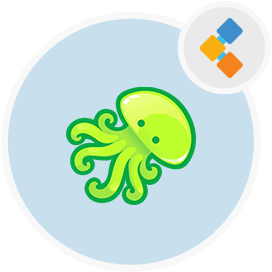
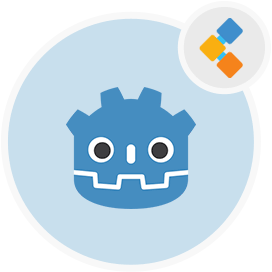
superpowers product first commit after issues

Changed region(s): [[0.2353, 0.2941, 0.7353, 0.7941]]

diff --git a/en/game-development-software/superpowers/_index.md b/en/game-development-software/superpowers/_index.md
@@ -1,32 +1,32 @@
 ---
-title: Superpowers | Open Source Free 3D Game Maker
-description: Superpowers is an open source free 3D game maker. It provides an HTML5 development environment along with many features such as 3D models and more.
-singlepageh1title: Cross Platform Tool For Creating Customized 2D 3D Games
-singlepageh2title: Learn free game development with the rich-featured editor. Built-in support for license-free sprites, sound effects, game examples, and live error reporting.
-Shortdescriptionlistingpage: Superpowers is an alternative free 3D game maker. It is flexible and offers features such as shared projects, syntax highlighting, cross-platform and more.
-linktitle: Superpowers
+title: Godot | Free Software For Building Cross Platform Games
+description: Build cross platform 3D games with open source Godot. It provides an intuitive drag & drop interface and live coding editor to control objects and behavior.
+singlepageh1title: 3D Game Maker With A Node-Based Interface And REST API
+singlepageh2title: Godot is a 3D game designer with a simple interface and persistent live editing capabilities. It is lightweight, robust, supports animations and sound effects.
+Shortdescriptionlistingpage: Godot is another alternative game development software for building cross platform games. It offers context-sensitive UI, REST API and many other features.
+linktitle: Godot
 Imagetext:  Free Game Development Software
 draft: false
-weight: 3
+weight: 2
 layout: "single"
-GithubLink: https://github.com/superpowers/superpowers-core
-HomePage_TitleText: Game Development Software in TypeScript
+GithubLink: https://github.com/godotengine/godot
+HomePage_TitleText: Game Development Software in C++
 
-ListingPage_MenuImage_TitleText: free 3D game maker
-ListingPage_MenuImage_AltText: Superpowers is a free 3D game maker
-ListingPage_Link_TitleText: free 3D game maker
+ListingPage_MenuImage_TitleText: free game development software
+ListingPage_MenuImage_AltText: Godot is an Open Source free game creation platform for building cross platform games
+ListingPage_Link_TitleText: free game creation platform for building cross platform games
 
-SinglePage_HeaderImage_TitleText: free 3d game maker
-SinglePage_HeaderImage_AltText: free 3d game maker for building cross platform games
-SinglePage_MenuImage_TitleText: free 3d game maker
-SinglePage_MenuImage_AltText: free 3d game maker for building cross platform games
+SinglePage_HeaderImage_TitleText: free game creation platform for building cross platform games
+SinglePage_HeaderImage_AltText: Godot is an Open Source free game creation platform for building cross platform games
+SinglePage_MenuImage_TitleText: free game creation platform for building cross platform games
+SinglePage_MenuImage_AltText: Godot is an Open Source free game creation platform for building cross platform games
 
 ---
 
-Superpowers is an open source free 3d game maker. It lets game developers write code in TypeScript for building video games. This free tool is flexible and provides the HTML5 development environment with syntax highlighting, and code auto competition. There is complete support for 3D modeling and sound effects in this free game editor. It also provides an offline version for making games. Moreover, users can invite other users to work on a shared project. It is highly extensible and comes with easy integration with plugins.
+Godot is a rich-featured open source game-making platform for building cross platform games. It provides full support for creating 2D, 3D objects. There is a node-based architecture for building games where users can create and connect various nodes depending upon the desires scenes. The whole ecosystem is developer-friendly with a live coding experience and users can create plugins for needed functionality. Further, it offers high definition graphics with the support of MSAA and FXAA. There is the capability of pre-baking the graphics for low-end devices.
 
-This open source game design app is cross-platform and supports almost all popular operating systems such as Windows, OS X, and Linux. Further, there are built-in games libraries and examples that make game development easy for beginners. Once the project is ready, users can publish it with one click residing o the user interface. This easy 3D game maker provides an intuitive dashboard with logical navigation.
+This free online 3d game maker incorporates beautiful effects that include tonemapper. It supports HDR, auto exposure, bloom. and screen-space reflections. Moreover, it supports a kinematic controller for collision detection. This free 3d game maker works on all popular platforms such as Windows, Linux, and macOS either 32-bit or 64-bit. It is secure, robust, and easy to set up on local or cloud servers. Above all, it provides REST API for third-party integrations.
 
-Superpowers is written in TypeScript. Therefore, this free 3D game maker has detailed documentation regarding development, usage, and deployment. You can download the source code and deploy it on your own premises.
+Godot is written in C++. In addition, this open source game editor has its own scripting language named GDScript that is used to build animated cross platform games. However, there is detailed documentation available regarding development and deployment. 
 
 <a class="anchor" id="requirements" name="requirements" style="font-size: 12.16px;"></a>

diff --git a/en/game-development-software/superpowers/installation.md b/en/game-development-software/superpowers/installation.md
@@ -10,17 +10,20 @@ weight: 3
 
 Once all the pre-requisites are installed, run the following command in the terminal to clone the source code:
 
-    git clone https://github.com/superpowers/superpowers-core superpowers/core
+    git clone https://github.com/godotengine/godot.git
 
-After that, run the following commands to make build:
+After that, go to the root directory of the engine source code and run the following command to compile for Intel (x86-64) powered Macs:
 
-    cd superpowers/core
-    npm run build
+    scons platform=osx arch=x86_64 --jobs=$(sysctl -n hw.logicalcpu)
 
-Now, start the server if all goes well by running this command:
+Run the following command to compile for Apple Silicon (ARM64) powered Macs:
 
-    node server start
+    scons platform=osx arch=arm64 --jobs=$(sysctl -n hw.logicalcpu)
 
-Finally, you can access the application into the browser at this address http://localhost:4237/.
+Then, run the following command:
+
+    lipo -create bin/godot.osx.tools.x86_64 bin/godot.osx.tools.arm64 -output bin/godot.osx.tools.universal
+
+Finally, find the executable binary in to the bin/ subdirectory.
 
 

diff --git a/en/game-development-software/superpowers/features.md b/en/game-development-software/superpowers/features.md
@@ -7,17 +7,20 @@ weight: 2
 
 ### **Features**
 
-Superpowers offers the following key features:
+Godot offers the following key features:
 
 *   Open Source
-*   Flexible
-*   Syntax Highlighting
-*   Extensible
-*   Support for 3D Models
-*   Sound Effects, Fonts
-*   Live Error Reporting
+*   REST API
+*   Self-Hosted
+*   Secure
+*   2D,3D Support
+*   Node-Based Architecture
+*   Animations
 *   Cross-Platform
-*   2D, 3D Games
-*   Support For Shared project
+*   Export Options
+*   Extensible
+*   Visual Scripting
+*   Drag & drop UI
+*   Robust
 
  

diff --git a/en/game-development-software/superpowers/system requirements.md b/en/game-development-software/superpowers/system requirements.md
@@ -7,9 +7,10 @@ weight: 1
 
 ### **System Requirements**
 
-Requirements to setup Superpowers include:
+Requirements to setup Godot include:
 
+*   Python 3.5+.
 *   Git
-*   Node.js
-*   Visual Studio Code (optional)
+*   SCons 3.0+ 
+*   Xcode
 
